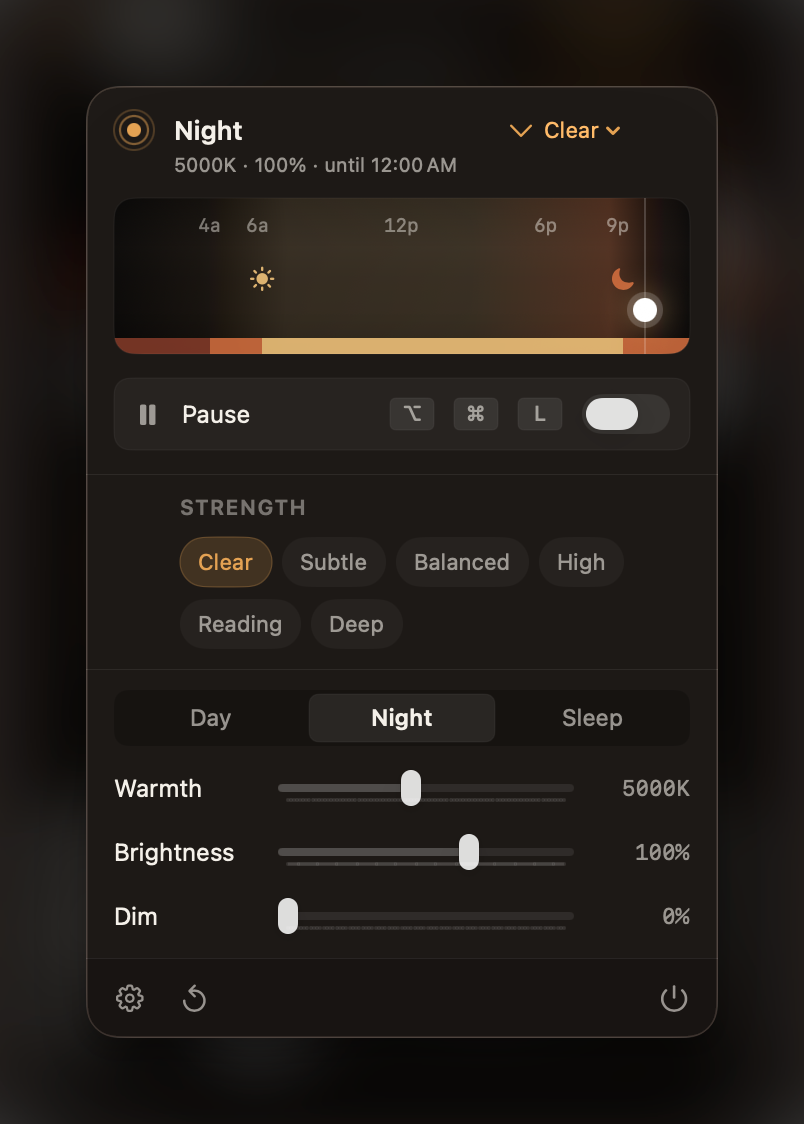
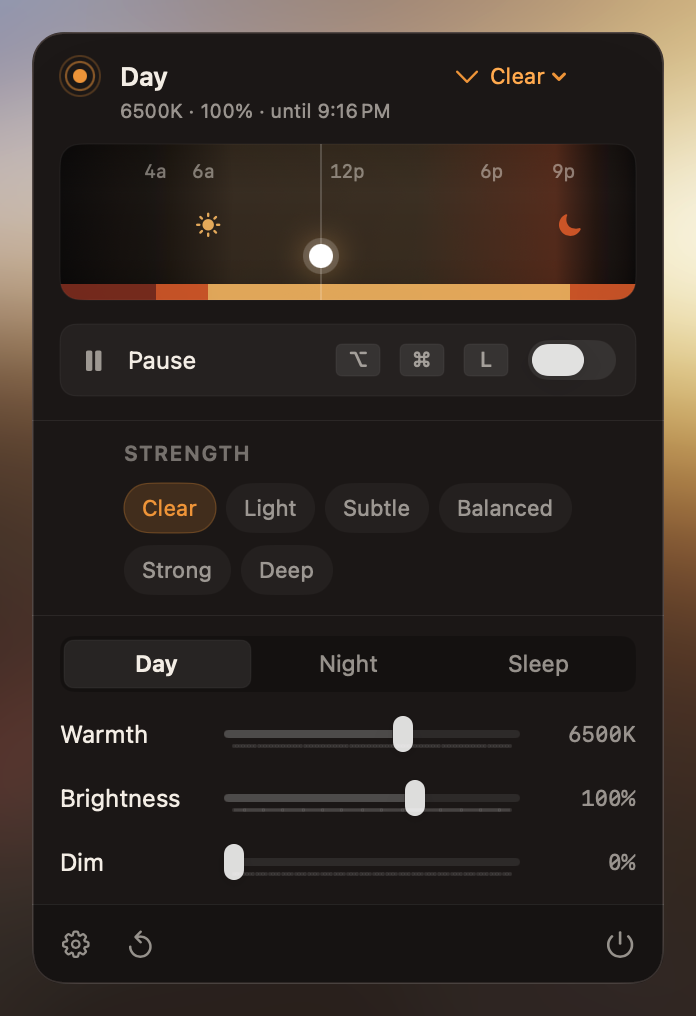
release: prepare Luma 0.1.5

diff --git a/README.md b/README.md
@@ -27,6 +27,18 @@ Presets let you switch the overall display effect between Clear, Light, Subtle, 
 
 ## Download And Install
 
+With Homebrew:
+
+```bash
+brew install --cask chountalas/tap/luma
+```
+
+To update later:
+
+```bash
+brew upgrade --cask luma
+```
+
 Download the latest `Luma-*-arm64.dmg` from the [Releases](https://github.com/chountalas/Luma/releases) page, open it, and drag Luma into Applications.
 
 Public builds are signed with a Developer ID and notarized by Apple, so they open without a Gatekeeper warning. To build from source instead, see below.
@@ -55,8 +67,8 @@ Quit other display-filter apps before using Luma as the daily driver. Running mu
 
 This produces:
 
-- `dist/Luma-0.1.4-arm64.dmg`
-- `dist/Luma-0.1.4-arm64.zip`
+- `dist/Luma-0.1.5-arm64.dmg`
+- `dist/Luma-0.1.5-arm64.zip`
 - `dist/checksums.txt`
 
 The local package is signed ad hoc by default. For a no-warning public download, set `CODE_SIGN_IDENTITY` to a Developer ID Application certificate and notarize the DMG.